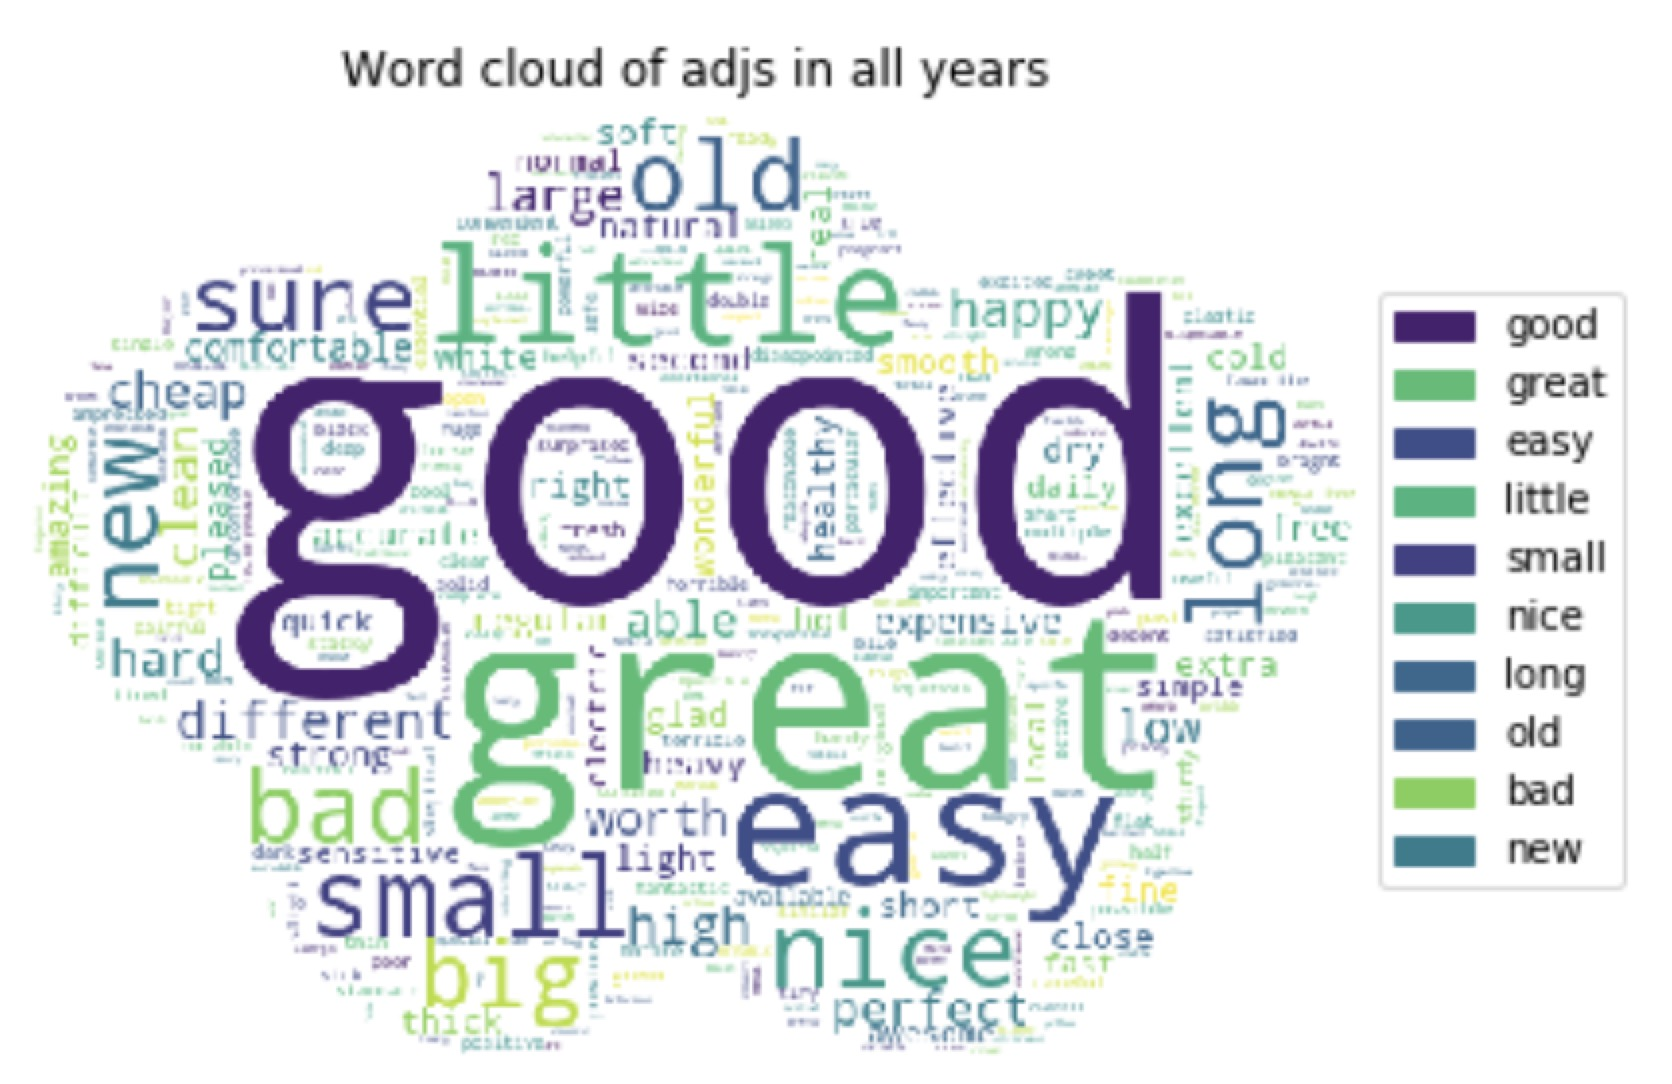
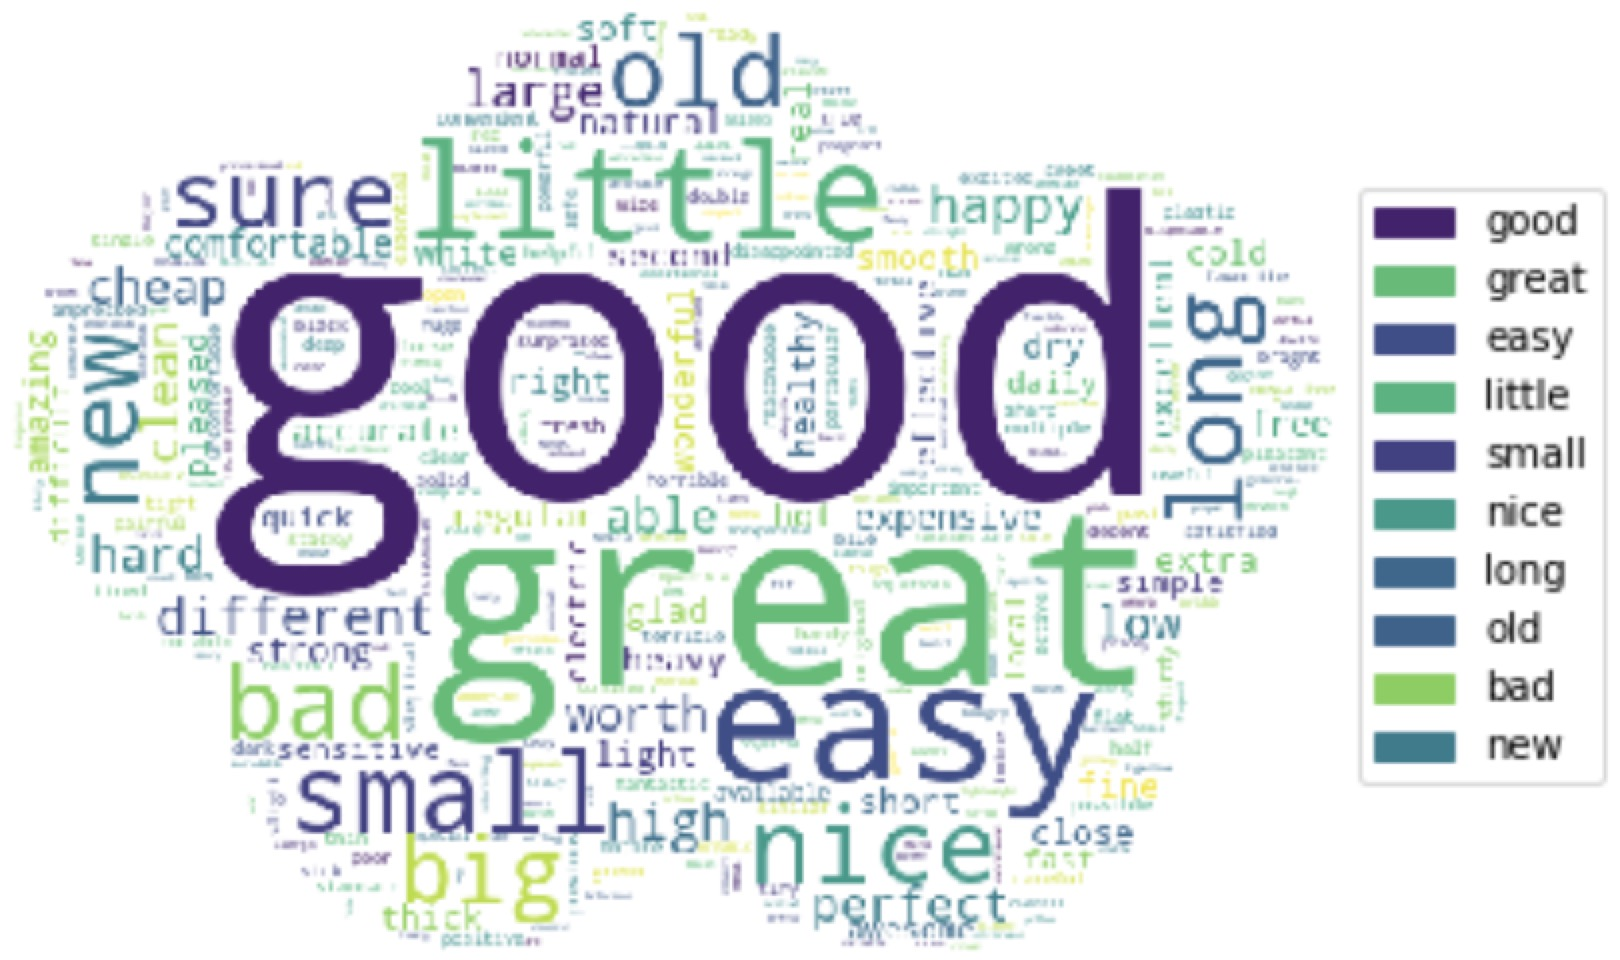
update cloud size

diff --git a/index.html b/index.html
@@ -135,8 +135,15 @@
 								Before diving into the numerical analysis of sentiment, let’s have a look at the keywords of reviews to have an intuitive impression of sentiment in reviews first. Here we use frequency of words in reviews to represent the keyness and focus on the most emotionally representative parts in reviews –– adjectives and bigrams.
 							</p>
 							<div width="100%" class="graph-margin overyear_cloud">
-								<img id="img3" alt="Figure3_Word cloud of POS in all years" src="images/Figure3_Word_cloud_of_POS_in_all_years.jpg">
-								<img id="img4" alt="Word cloud of bigrams in all years" src="images/Figure4_Word cloud of bigrams in all years.png">
+								<div class="align_cloud">
+										<div class="title_cloud">Word Cloud of Adjective in All Years</div>
+										<img id="img3" alt="Figure3_Word cloud of POS in all years" src="images/Figure3_Word_cloud_of_POS_in_all_years.jpg">
+								</div>
+								<div class="align_cloud">
+										<div class="title_cloud">Word Cloud of Bigrams in All Years</div>
+										<img id="img4" alt="Word cloud of bigrams in all years" src="images/Figure4_Word cloud of bigrams in all years.jpg">
+								</div>
+								
 							</div>
 							
 							<p>

diff --git a/css/style.css b/css/style.css
@@ -486,14 +486,17 @@ footer {
   position: relative;
   z-index: 999;
 }
-.overyear_cloud img{
+/* .overyear_cloud img{
   display: inline;
-}
+} */
 #img3{
-  width:45%;
+  width:94%;
 }
 #img4{
-  width:53%
+  width:109%
+}
+.align-img{
+  text-align:center;
 }
 .align-img div{
   width:100%;
@@ -510,6 +513,18 @@ footer {
 }
 .graph-margin{
   margin-top:10px;
+}
+.align_cloud{
+  display: inline-block;
+  width:48%;
+  text-align: center;
+}
+.title_cloud{
+  width:100%;
+  font-size:15px;
+  font-weight:600;
+  font-family: "Candara";
+  text-align: center;
 }
 .single #fh5co-main-content {
   margin-left: 0;
